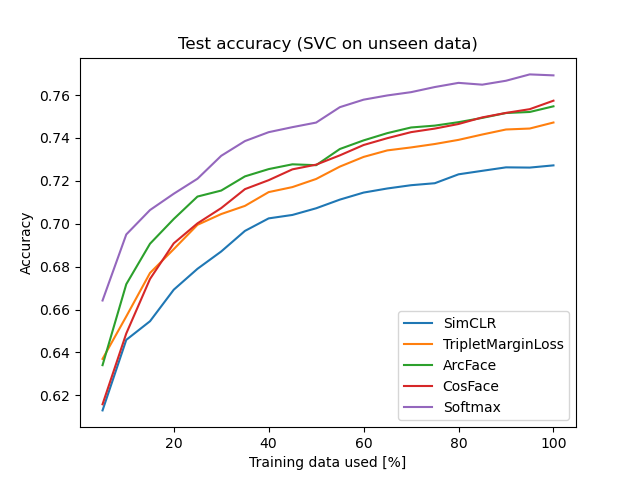
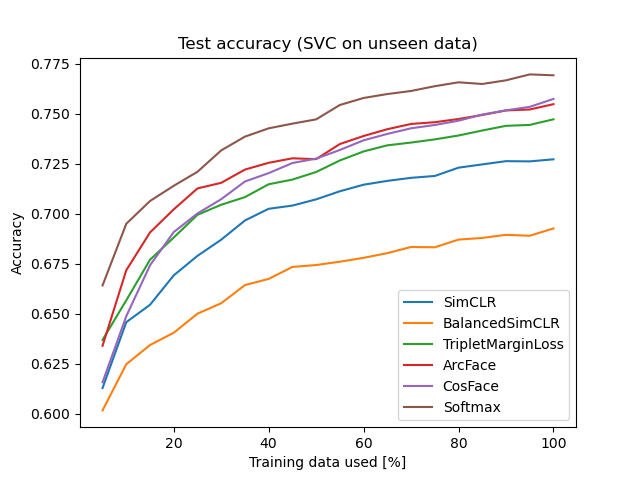
balanced simclr run

diff --git a/configfile.py b/configfile.py
@@ -40,7 +40,20 @@ models["SimCLR"] = {
         "batch_size" : 1024,
         "epochs" : 20,
         "lr" : 0.0015,
-        "device" : "cuda:3"
+        "device" : "cuda:3",
+        "balance_train_data" : False
+        }
+
+# SimCLR Model (With balanced dataloader)
+models["BalancedSimCLR"] = {
+        "head" : ProjectionHead(embedding_dimension),
+        "loss_function" : NTXentLoss(t=0.2),
+        "trainer" : SimCLRTrainer(),
+        "batch_size" : 1024,
+        "epochs" : 20,
+        "lr" : 0.0015,
+        "device" : "cuda:3",
+        "balance_train_data" : False
         }
 
 # Triplet Margin Loss Model
@@ -51,7 +64,8 @@ models["TripletMarginLoss"] = {
         "batch_size" : 128,
         "epochs" : 20,
         "lr" : 0.0015,
-        "device" : "cuda:4"
+        "device" : "cuda:4",
+        "balance_train_data" : False
         }
 
 # ArcFace Model
@@ -62,7 +76,8 @@ models["ArcFace"] = {
         "batch_size" : 128,
         "epochs" : 20,
         "lr" : 0.0015,
-        "device" : "cuda:5"
+        "device" : "cuda:5",
+        "balance_train_data" : False
         }
 
 # CosFace Model
@@ -73,7 +88,8 @@ models["CosFace"] = {
         "batch_size" : 128,
         "epochs" : 20,
         "lr" : 0.0015,
-        "device" : "cuda:6"
+        "device" : "cuda:6",
+        "balance_train_data" : False
         }
 
 # Standard Softmax Classifier Model
@@ -84,7 +100,8 @@ models["Softmax"] = {
         "batch_size" : 128,
         "epochs" : 20,
         "lr" : 0.0015,
-        "device" : "cuda:7"
+        "device" : "cuda:7",
+        "balance_train_data" : False
         }
 
 # Select and load model
@@ -102,6 +119,7 @@ trainer = selected_model["trainer"]
 batch_size = selected_model["batch_size"]
 epochs = selected_model["epochs"]
 lr = selected_model["lr"]
+balance_train_data = selected_model["balance_train_data"]
 
 #Load custom dataset
 #data = FlowCamDataLoader(class_names, image_size, val, test,  batch_size)
@@ -113,7 +131,12 @@ lr = selected_model["lr"]
 #val_dataset = data["val_dataset"]
 #test_dataset = data["test_dataset"]
 train_dataset = FlowCamDataSet(class_names, image_size)
-train_dataloader = torch.utils.data.DataLoader(train_dataset, batch_size=batch_size, shuffle=True, num_workers=num_workers)
+if balance_train_data:
+    sample_weights = train_dataset.get_sample_weights()
+    sampler = torch.utils.data.WeightedRandomSampler(weights=sample_weights, num_samples=len(sample_weights), replacement=True)
+else:
+    sampler = None
+train_dataloader = torch.utils.data.DataLoader(train_dataset, batch_size=batch_size, shuffle=True, num_workers=num_workers, sampler=sampler)
 
 val_dataset = FlowCamDataSet(validation_classes, image_size)
 val_dataloader = torch.utils.data.DataLoader(val_dataset, batch_size=batch_size, shuffle=False, num_workers=num_workers)

diff --git a/dataloader.py b/dataloader.py
@@ -29,6 +29,13 @@ class FlowCamDataSet(Dataset):
         for class_name, class_size in self.class_sizes:
             print(f"\"{class_name}\": {class_size} images ({round(100*class_size/self.number_of_images, 2)}%).")
         print(f"Total: {self.number_of_images} images.")
+    
+    def get_sample_weights(self):
+        sample_weights = []
+        for i,(class_name, class_size) in enumerate(self.class_sizes):
+            sample_weights += [self.number_of_images/class_size] * class_size
+        return sample_weights
+
 
     def __getitem__(self, index):
         filename, label = self.images[index]
